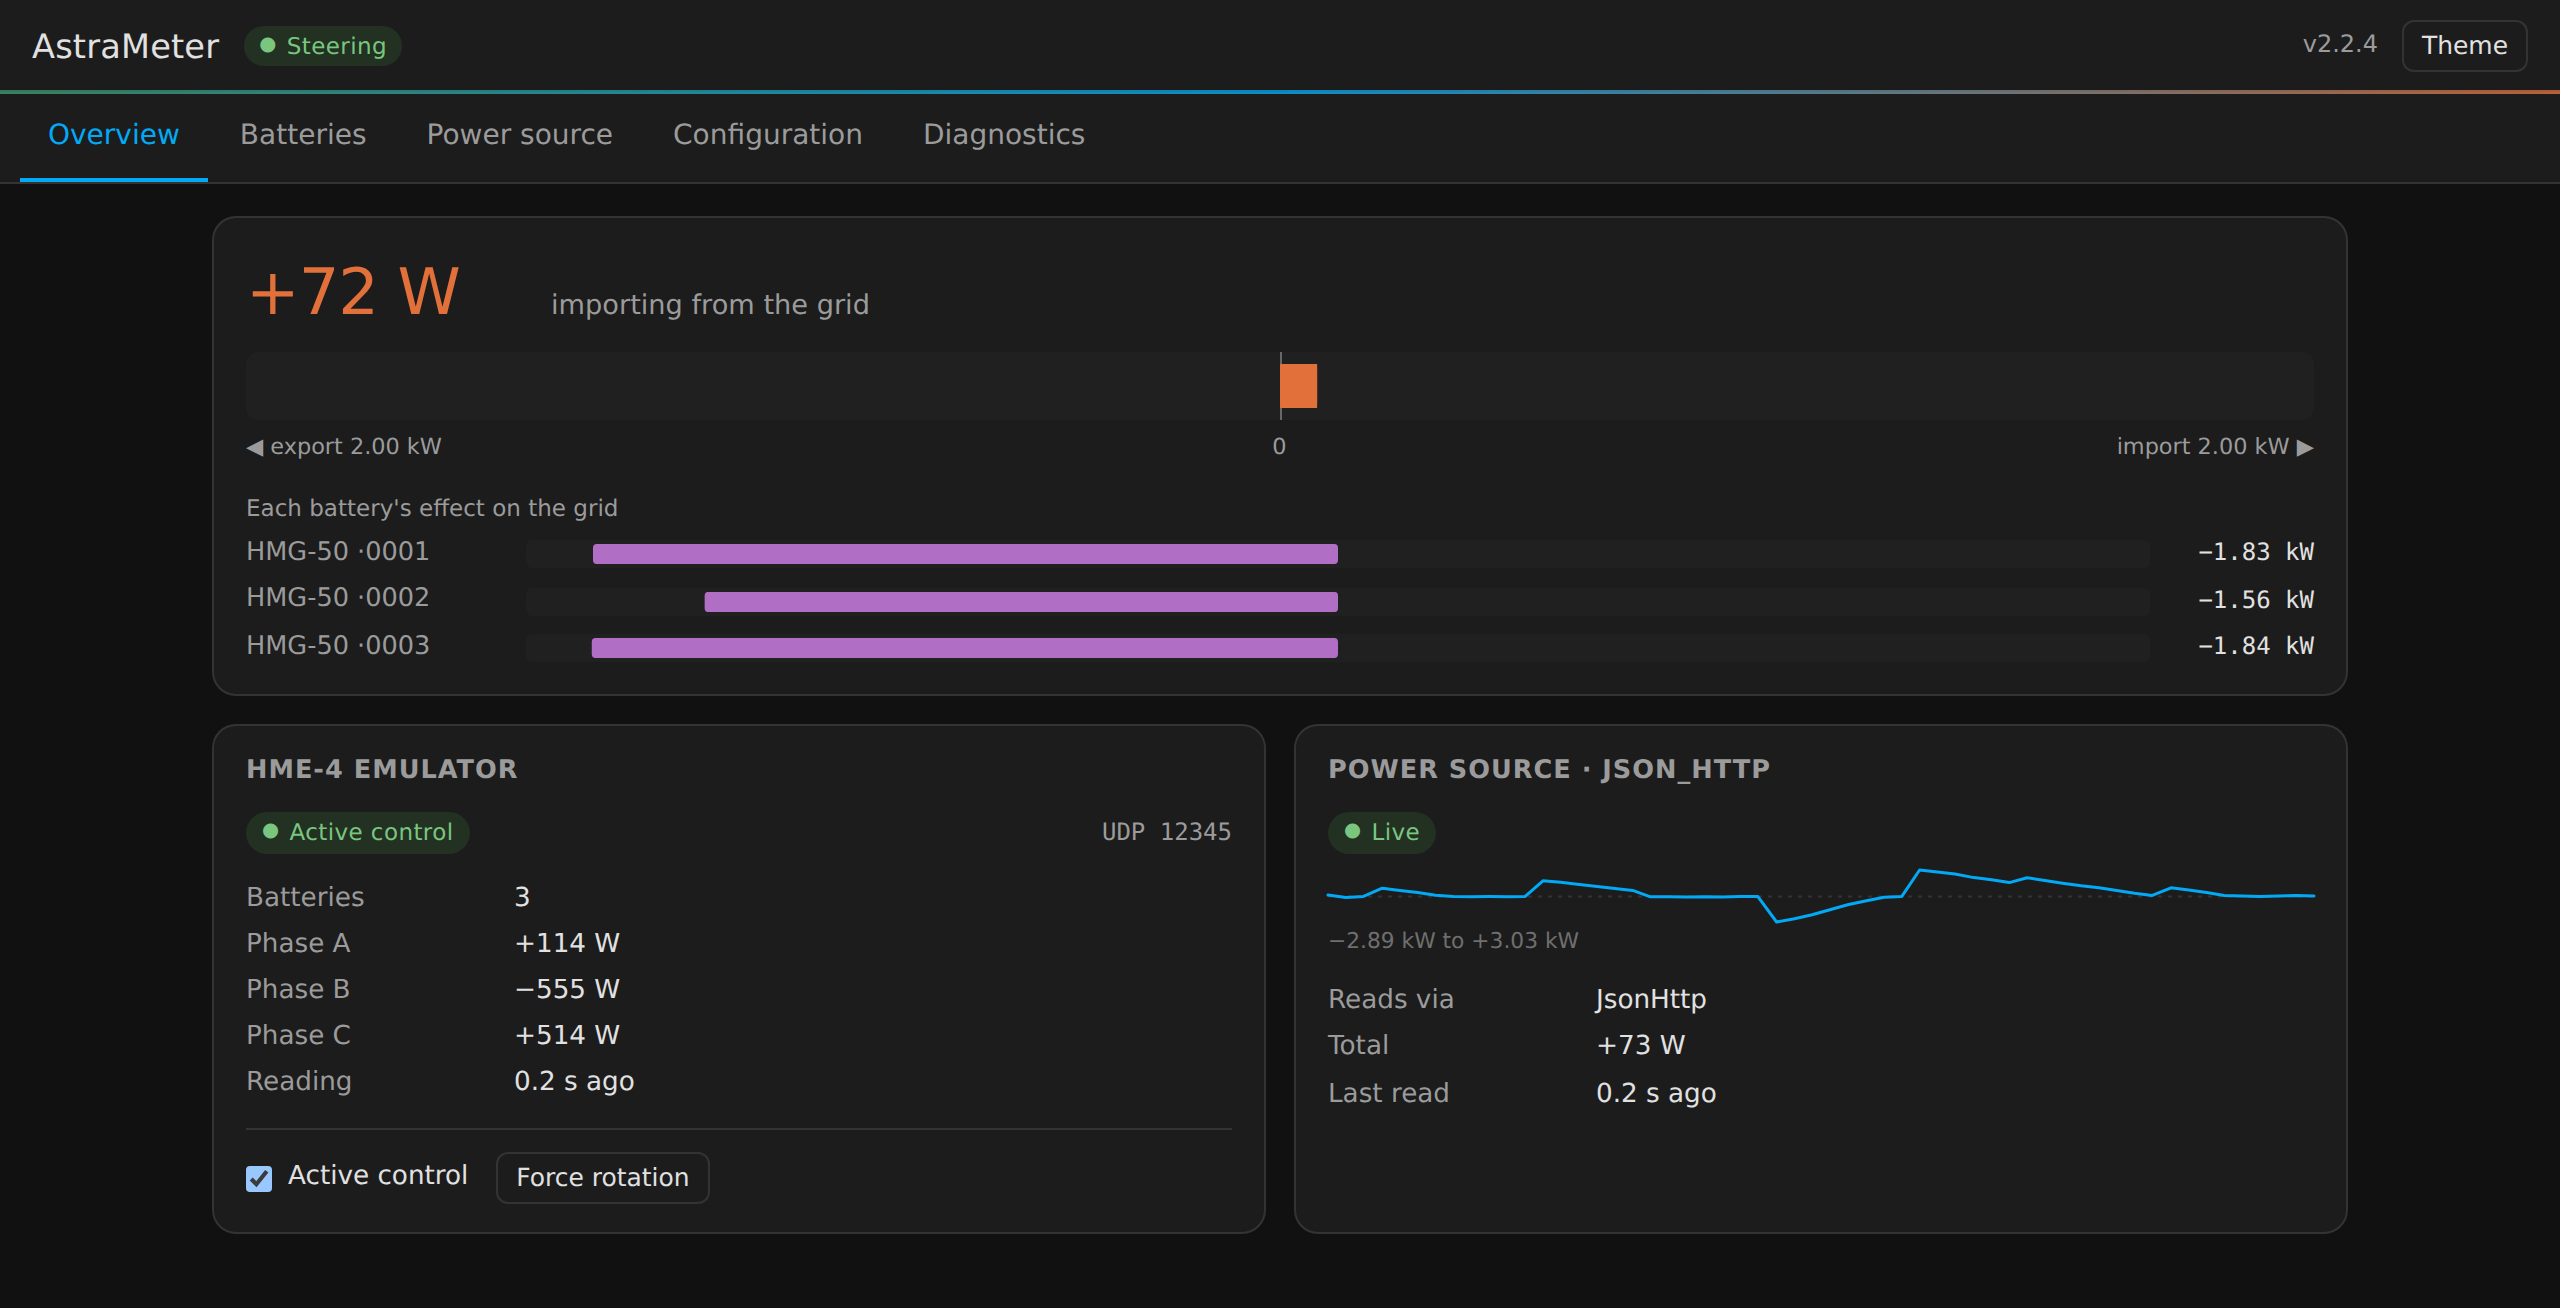
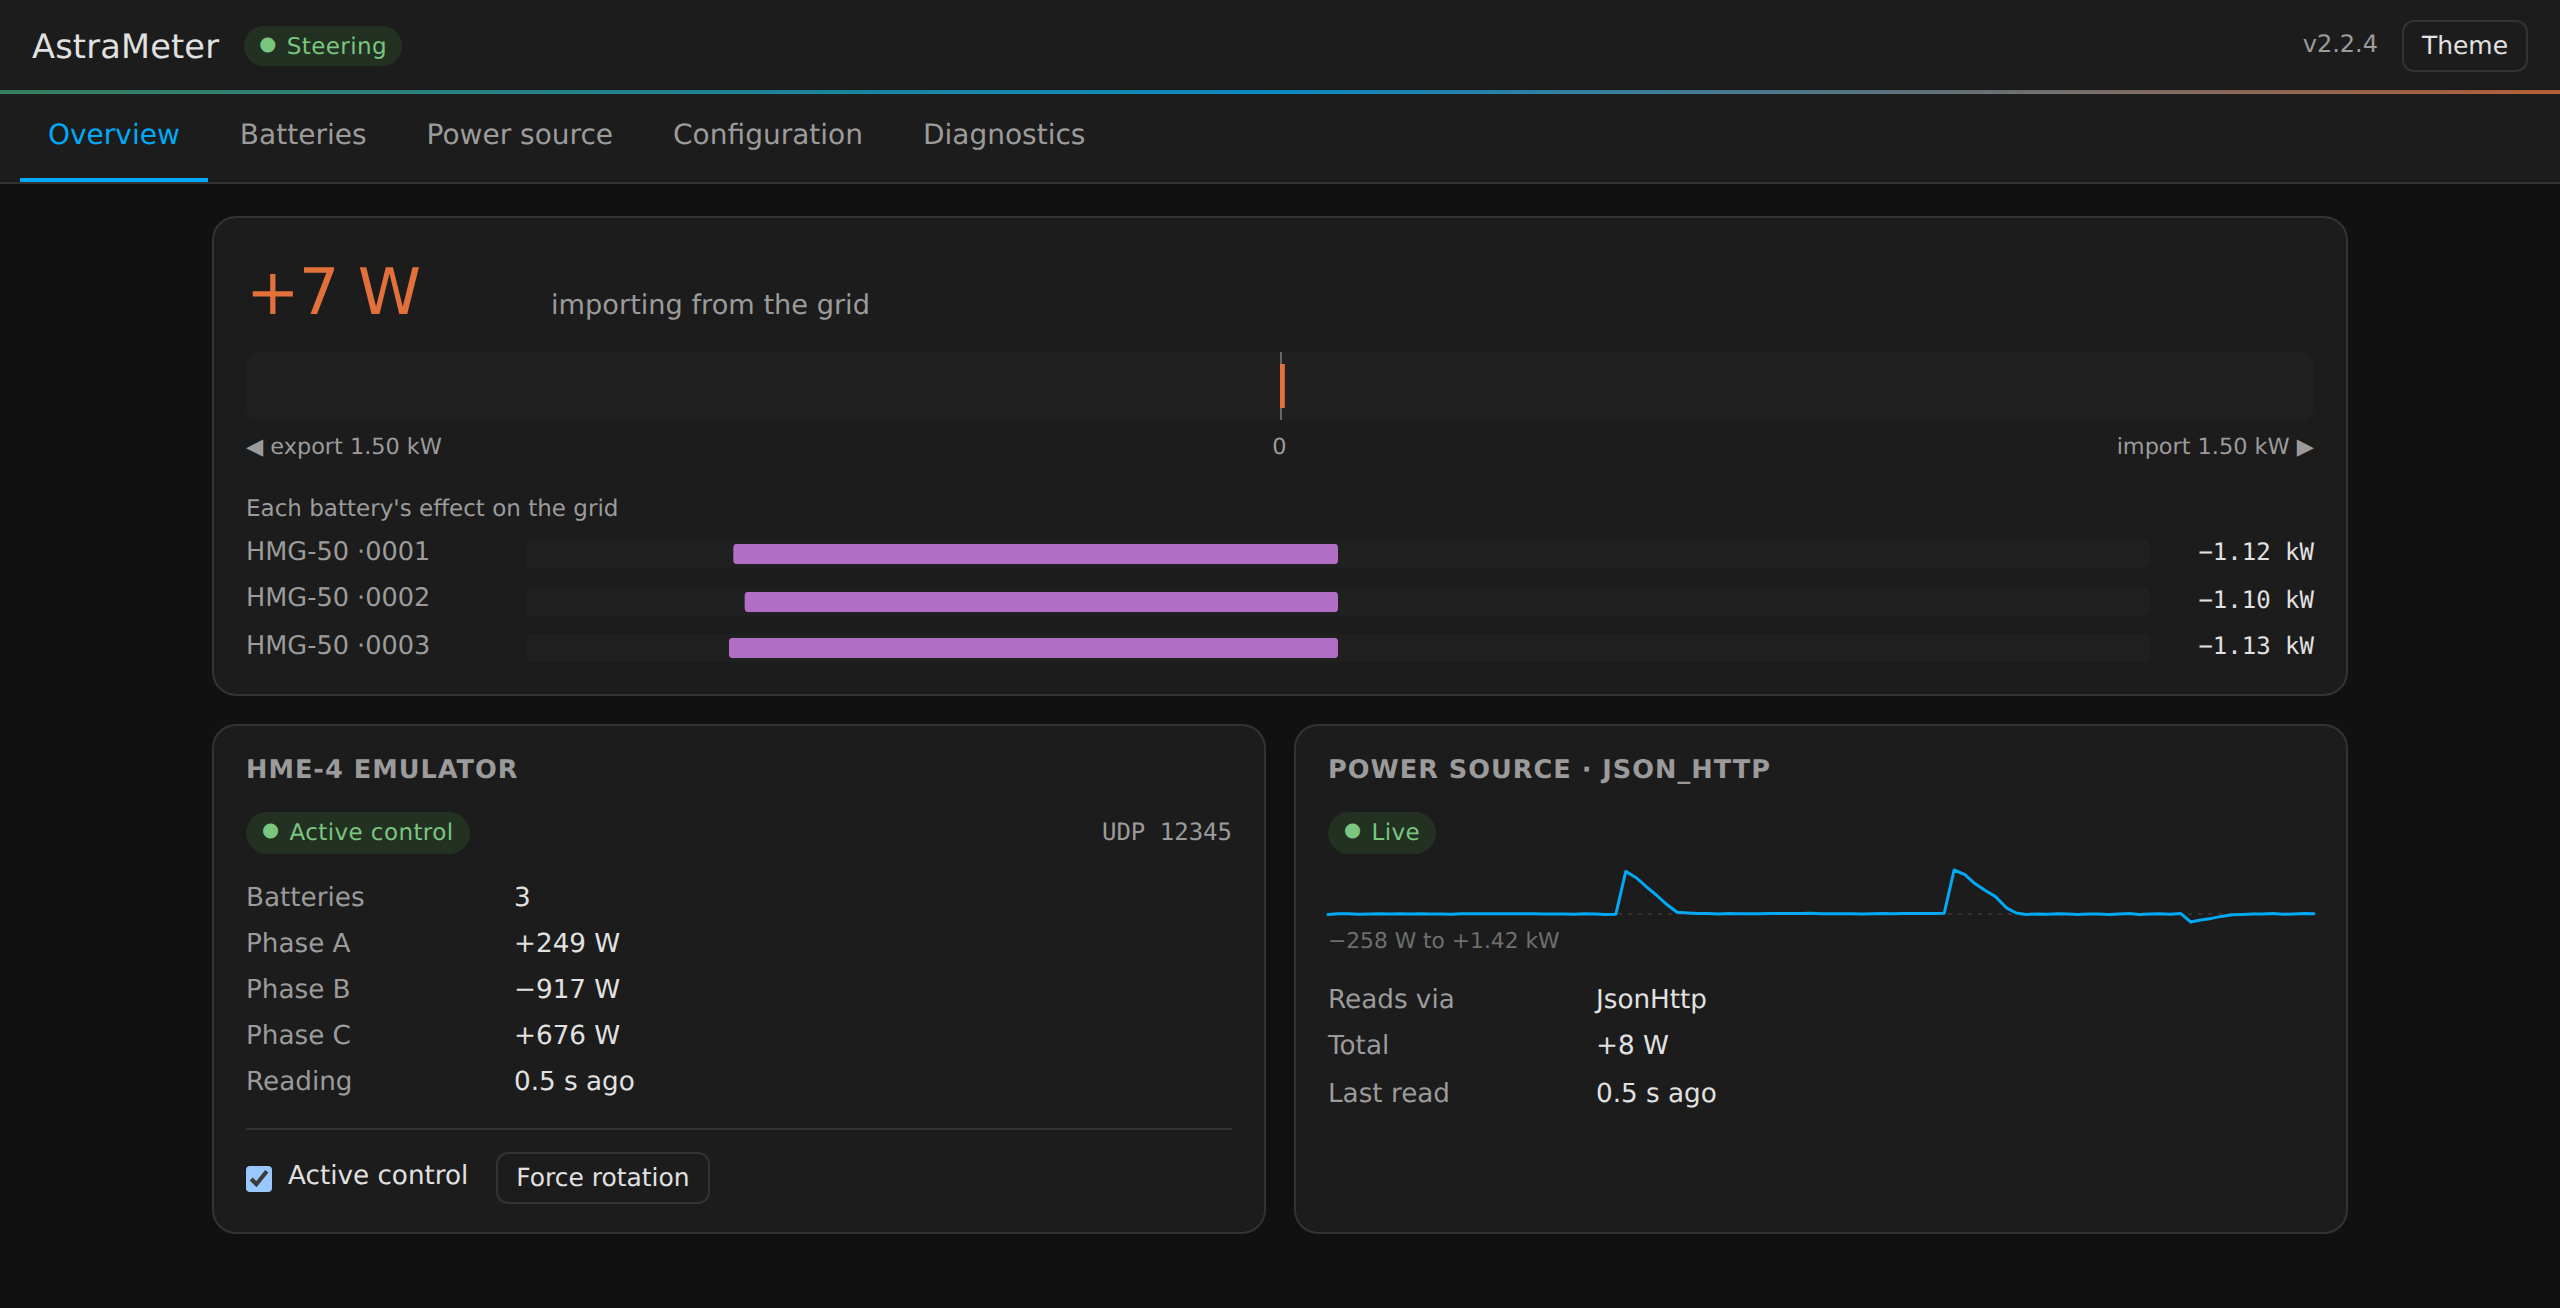
Fix the screenshot scenario so the grid really is at zero
The captions were right and the images were wrong: the overview shots
read +72 W and +136 W, which is not "at zero", and the previous commit
reworded the captions instead of fixing what they described. Reverted —
the claim stands, the scenario now earns it.

Two faults, both in the simulated house.

`base_noise` was 25 W per phase, re-rolled on every read. No controller
can cancel noise that is resampled after the correction is sent, so it
was a hard floor of roughly ±75 W on the total, and the balancer was
being asked to do something arithmetically impossible. It is 6 W now —
meter jitter rather than a disturbance.

`auto_interval` was 10-20 s, shorter than the loop takes to converge:
the steering evaluation puts settling at ~35 s mean and ~62 s p95, so
the house never settled at all. It was permanently mid-chase, and every
shot caught it there. Events are now 45-95 s apart.

The gate that should have caught both was `--settle 250`, loose enough
to call a mid-correction moment settled. It is 30 W now, the balancer's
own band. `--points` rises to 90 so the ~3-minute trend window still
spans a few events and their recoveries.

The overview now reads +1 W and +7 W, and the trend lines show the
story they should: a step when an appliance starts, and the fleet
taking it back to zero.

Claude-Session: https://claude.ai/code/session_01CWw7pRCh73ZpbEMwc66TqA

diff --git a/web/tools/screenshots.ts b/web/tools/screenshots.ts
@@ -60,7 +60,12 @@ const SHOWCASE: SimConfig = {
     // battery and parks the other two at 0 W: correct behaviour, but it
     // documents the efficiency rule rather than the balancing.
     base_load: [300, 260, 240],
-    base_noise: 25,
+    // Meter jitter, not a disturbance. This is re-rolled every read, so the
+    // balancer cannot cancel it — whatever is set here is a floor under how
+    // close to zero the grid can be held, and at 25 W/phase that floor was
+    // ~±75 W on the total. The dashboard then showed a house AstraMeter was
+    // visibly failing to zero out.
+    base_noise: 6,
     // Sized so the fleet can still cover the house with everything on. A
     // bigger house is not a better advert: it just parks the grid bar at the
     // end of its scale, which is AstraMeter saturated, not AstraMeter working.
@@ -86,11 +91,12 @@ const SHOWCASE: SimConfig = {
     { mac: "02B250000003", phase: "C", max_charge_power: 2500, max_discharge_power: 2500, capacity_wh: 5120, initial_soc: 0.38 },
   ],
   auto_mode: true,
-  // Something switches every ten to twenty seconds — often enough that the
-  // trend lines have shape by the time the warm-up ends, slow enough that the
-  // balancer has caught up before the next change. Push this much faster and
-  // the loop never converges, so every shot lands mid-chase.
-  auto_interval: [10, 20],
+  // Longer than the loop takes to converge. The steering evaluation puts
+  // settling at ~35 s mean and ~62 s p95, so a house that switched every
+  // 10-20 s was never settled at all — it was permanently chasing, and the
+  // grid sat 70-140 W away from zero in every shot. Events this far apart
+  // leave the trend lines a visible step *and* the recovery after it.
+  auto_interval: [45, 95],
   log_interval: 600,
 } as SimConfig;
 
@@ -119,13 +125,16 @@ function parseArgs(argv: string[]): Options {
     height: 900,
     // Retina: the docs render these at roughly half their pixel width.
     scale: 2,
-    // Enough of a line to read as a trend. At the 2 s poll that is ~80 s of
-    // watching, and the warm-up budget below is the ceiling on waiting for it.
-    minPoints: 40,
-    warmupMs: 240_000,
-    // What "a good moment" means, in watts: the grid held near zero, and
-    // every battery visibly the reason why.
-    settleW: 250,
+    // ~3 minutes of watching at the 2 s poll. Enough to cover a couple of
+    // the house's changes and the settling after each, which is what gives a
+    // trend line its shape now that events are further apart.
+    minPoints: 90,
+    warmupMs: 420_000,
+    // What "a good moment" means, in watts: the grid genuinely at zero — the
+    // balancer's own settle band is ±25 W — and every battery visibly the
+    // reason why. A loose gate here is not a small sin: it admits shots of
+    // AstraMeter mid-correction and presents them as AstraMeter working.
+    settleW: 30,
     workingW: 150,
     tabs: [...TABS],
     themes: [...THEMES],

diff --git a/web/index.html b/web/index.html
@@ -123,15 +123,14 @@
           <figure class="shot">
             <img
               src="assets/screenshots/dashboard-overview-dark.png"
-              alt="The Overview tab: the grid held to a fraction of what the house is drawing, while three batteries between them supply the rest"
+              alt="The Overview tab: the grid held within a few watts of zero while three batteries between them supply what the house is drawing"
               width="1280"
               height="654"
               loading="lazy"
               decoding="async"
             />
             <figcaption>
-              Three batteries, one house — drawing kilowatts from the wall, buying almost none of it
-              from the grid. What is left is what the fleet has not cancelled.
+              Three batteries, one house. The grid sits at zero because the fleet is holding it there.
             </figcaption>
           </figure>
           <figure class="shot">

diff --git a/AGENTS.md b/AGENTS.md
@@ -84,27 +84,29 @@ page (`web/build.mjs` copies them to `dist/assets/screenshots/`). Refresh them
 with:
 
 ```bash
-cd web && npm run screenshots     # ~4 minutes; takes all 8
+cd web && npm run screenshots     # ~8 minutes; takes all 8
 ```
 
 `web/tools/screenshots.ts` boots the same stack the browser tests use — via a
-`sim`/`configDir`/`meterOptions` override on `startStack` — against a bigger
-house (three batteries, five appliances, solar) and drives a real browser. It
-is deliberately patient: the trend lines are built in the browser from polls,
-so it waits for real samples, and it waits for a moment when the grid is near
-zero with every battery working before each shot. `--tabs`, `--themes`,
+`sim`/`configDir` override on `startStack` — against a bigger house (three
+batteries, five appliances, solar) and drives a real browser. It is
+deliberately patient: the trend lines are built in the browser from polls, so
+it waits for real samples, and it waits for a moment when the grid is actually
+at zero with every battery working before each shot. `--tabs`, `--themes`,
 `--warmup` and `--out` narrow a re-run. There is **no CI check** for staleness —
 the values are live, so every run differs and a diff would always be dirty;
 refresh them when a UI change makes them wrong.
 
-Because every run differs, two things around the images must not assume a
-particular one:
+Two things to hold onto when refreshing them:
 
-- **Captions and alt text must not quote a reading.** "Holds the grid at zero"
-  was written against a shot that read +72 W. Describe the relationship the
-  script actually guarantees — the grid held to a fraction of the house while
-  the fleet carries the rest — not a number. The gate is `--settle` (default
-  250 W) and `--working` (150 W); a caption may only claim what those allow.
+- **The captions claim the grid sits at zero, and the images have to earn
+  it.** If a shot comes out tens of watts off, the scenario is wrong, not the
+  caption — do not reword the caption to match a bad run. Two settings decide
+  this: `base_noise` is re-rolled every read, so it is a hard floor under how
+  close to zero the grid can be held, and `auto_interval` must stay longer
+  than the loop takes to settle (~35 s mean, ~62 s p95 per the steering
+  evaluation) or the house is never settled at all. `--settle` (default 30 W,
+  the balancer's own band) is the guard that catches both.
 - **`web/index.html` states each image's intrinsic `width`/`height`** to
   reserve layout space. The crop height follows the tab's content, so re-check
   those attributes after a refresh that changes a tab's height.

diff --git a/README.md b/README.md
@@ -12,7 +12,7 @@ net-zero grid exchange.
 
 <picture>
   <source media="(prefers-color-scheme: dark)" srcset="docs/images/dashboard-overview-dark.png">
-  <img alt="AstraMeter's live status dashboard: the grid held to a fraction of what the house is drawing, while three batteries between them supply the rest" src="docs/images/dashboard-overview-light.png">
+  <img alt="AstraMeter's live status dashboard: the grid held within a few watts of zero while three batteries between them supply what the house is drawing" src="docs/images/dashboard-overview-light.png">
 </picture>
 
 <p align="center"><em>The built-in <a href="docs/dashboard.md">live status dashboard</a> — three batteries sharing one house.</em></p>

diff --git a/docs/dashboard.md b/docs/dashboard.md
@@ -29,7 +29,7 @@ and the power source's health.
 
 <picture>
   <source media="(prefers-color-scheme: dark)" srcset="images/dashboard-overview-dark.png">
-  <img alt="The Overview tab: the grid held to a fraction of what the house is drawing, while three batteries between them supply the rest" src="images/dashboard-overview-light.png">
+  <img alt="The Overview tab: the grid held within a few watts of zero while three batteries between them supply what the house is drawing" src="images/dashboard-overview-light.png">
 </picture>
 
 **Batteries** — one card per battery: reported power, the target AstraMeter
